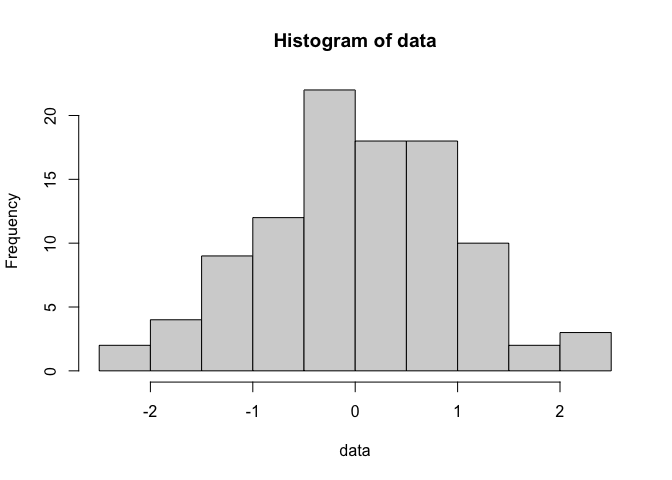
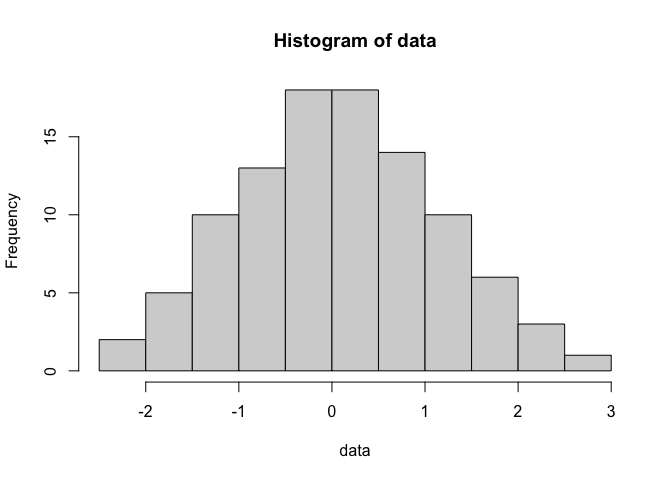
tutorials-lida: README

diff --git a/tutorials/lida-rr/README.md b/tutorials/lida-rr/README.md
@@ -1,6 +1,14 @@
 
 ### Code Sharing and Reproducible Research
 
+Jump to:
+
+  - [Environments](#envs)
+
+  - [CI](#ci)
+
+  - [References](#refs)
+
 This is a 30 minutes interactive session on MS Teams at
 [LIDA](https://lida.leeds.ac.uk) where I am based.This README is there
 to help attendees find resources discussed and others who land here.
@@ -26,7 +34,7 @@ There is not as far as I know a convention or established method.
 www.sourceforge.net to dump source code or in the case of theses, maybe
 submit zip files.
 
-### Environment based
+### <a name="envs"></a>Environment based
 
 The tools and techniques to share code is based on the language. In this
 context the two major languages as you know are Python and R (or R and
@@ -60,7 +68,7 @@ summary(data)
 ```
 
     ##     Min.  1st Qu.   Median     Mean  3rd Qu.     Max. 
-    ## -2.23026 -0.51837  0.02724  0.04763  0.77895  2.11176
+    ## -2.39212 -0.80011  0.05232  0.04478  0.77049  2.77336
 
 ``` r
 hist(data)
@@ -73,7 +81,7 @@ screenshot is from MS Visual Studio Code Rmd rendered and previewed
 simultaneously. Also, sent to the GH pages of my personal account.
 <img width="100%" alt="VS code RMD rendering and previewing" src="https://user-images.githubusercontent.com/408568/94319467-993d8a80-ff82-11ea-9a65-0909fca6fa3f.png">
 
-### Automation and Continous Integration
+### <a name="ci"></a> Automation and Continous Integration
 
 Why?
 
@@ -113,7 +121,7 @@ more:
   - jupyter
   - rmarkdown
   - 
-### References
+### <a name="refs"></a>References
 
 <div id="refs" class="references hanging-indent">
 
